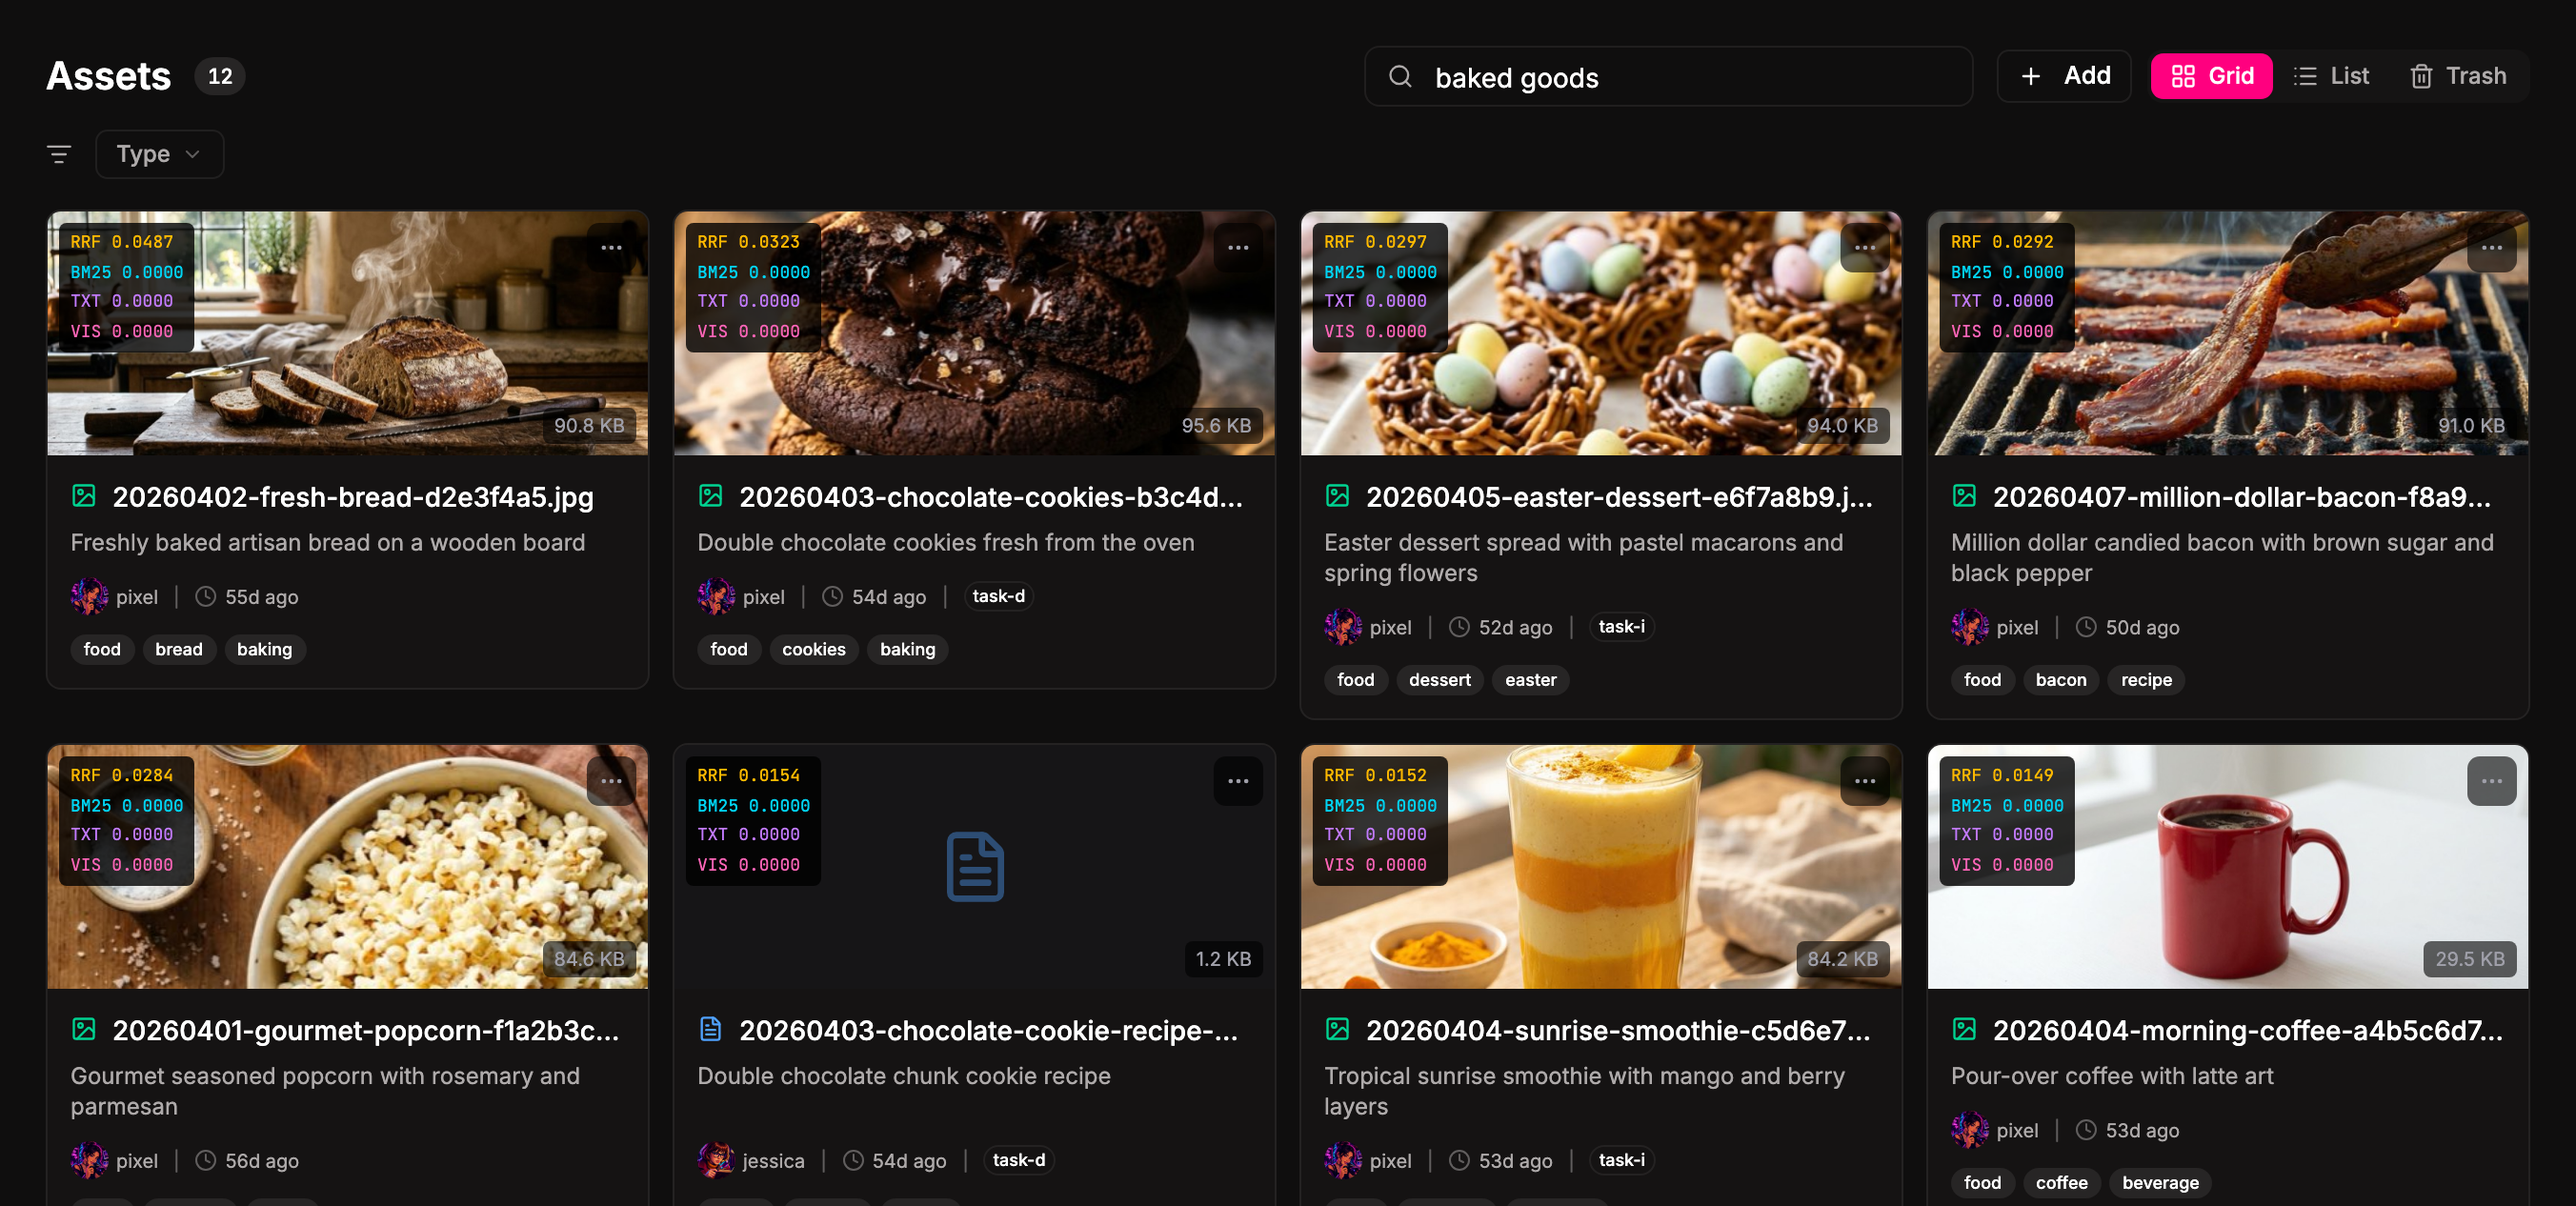
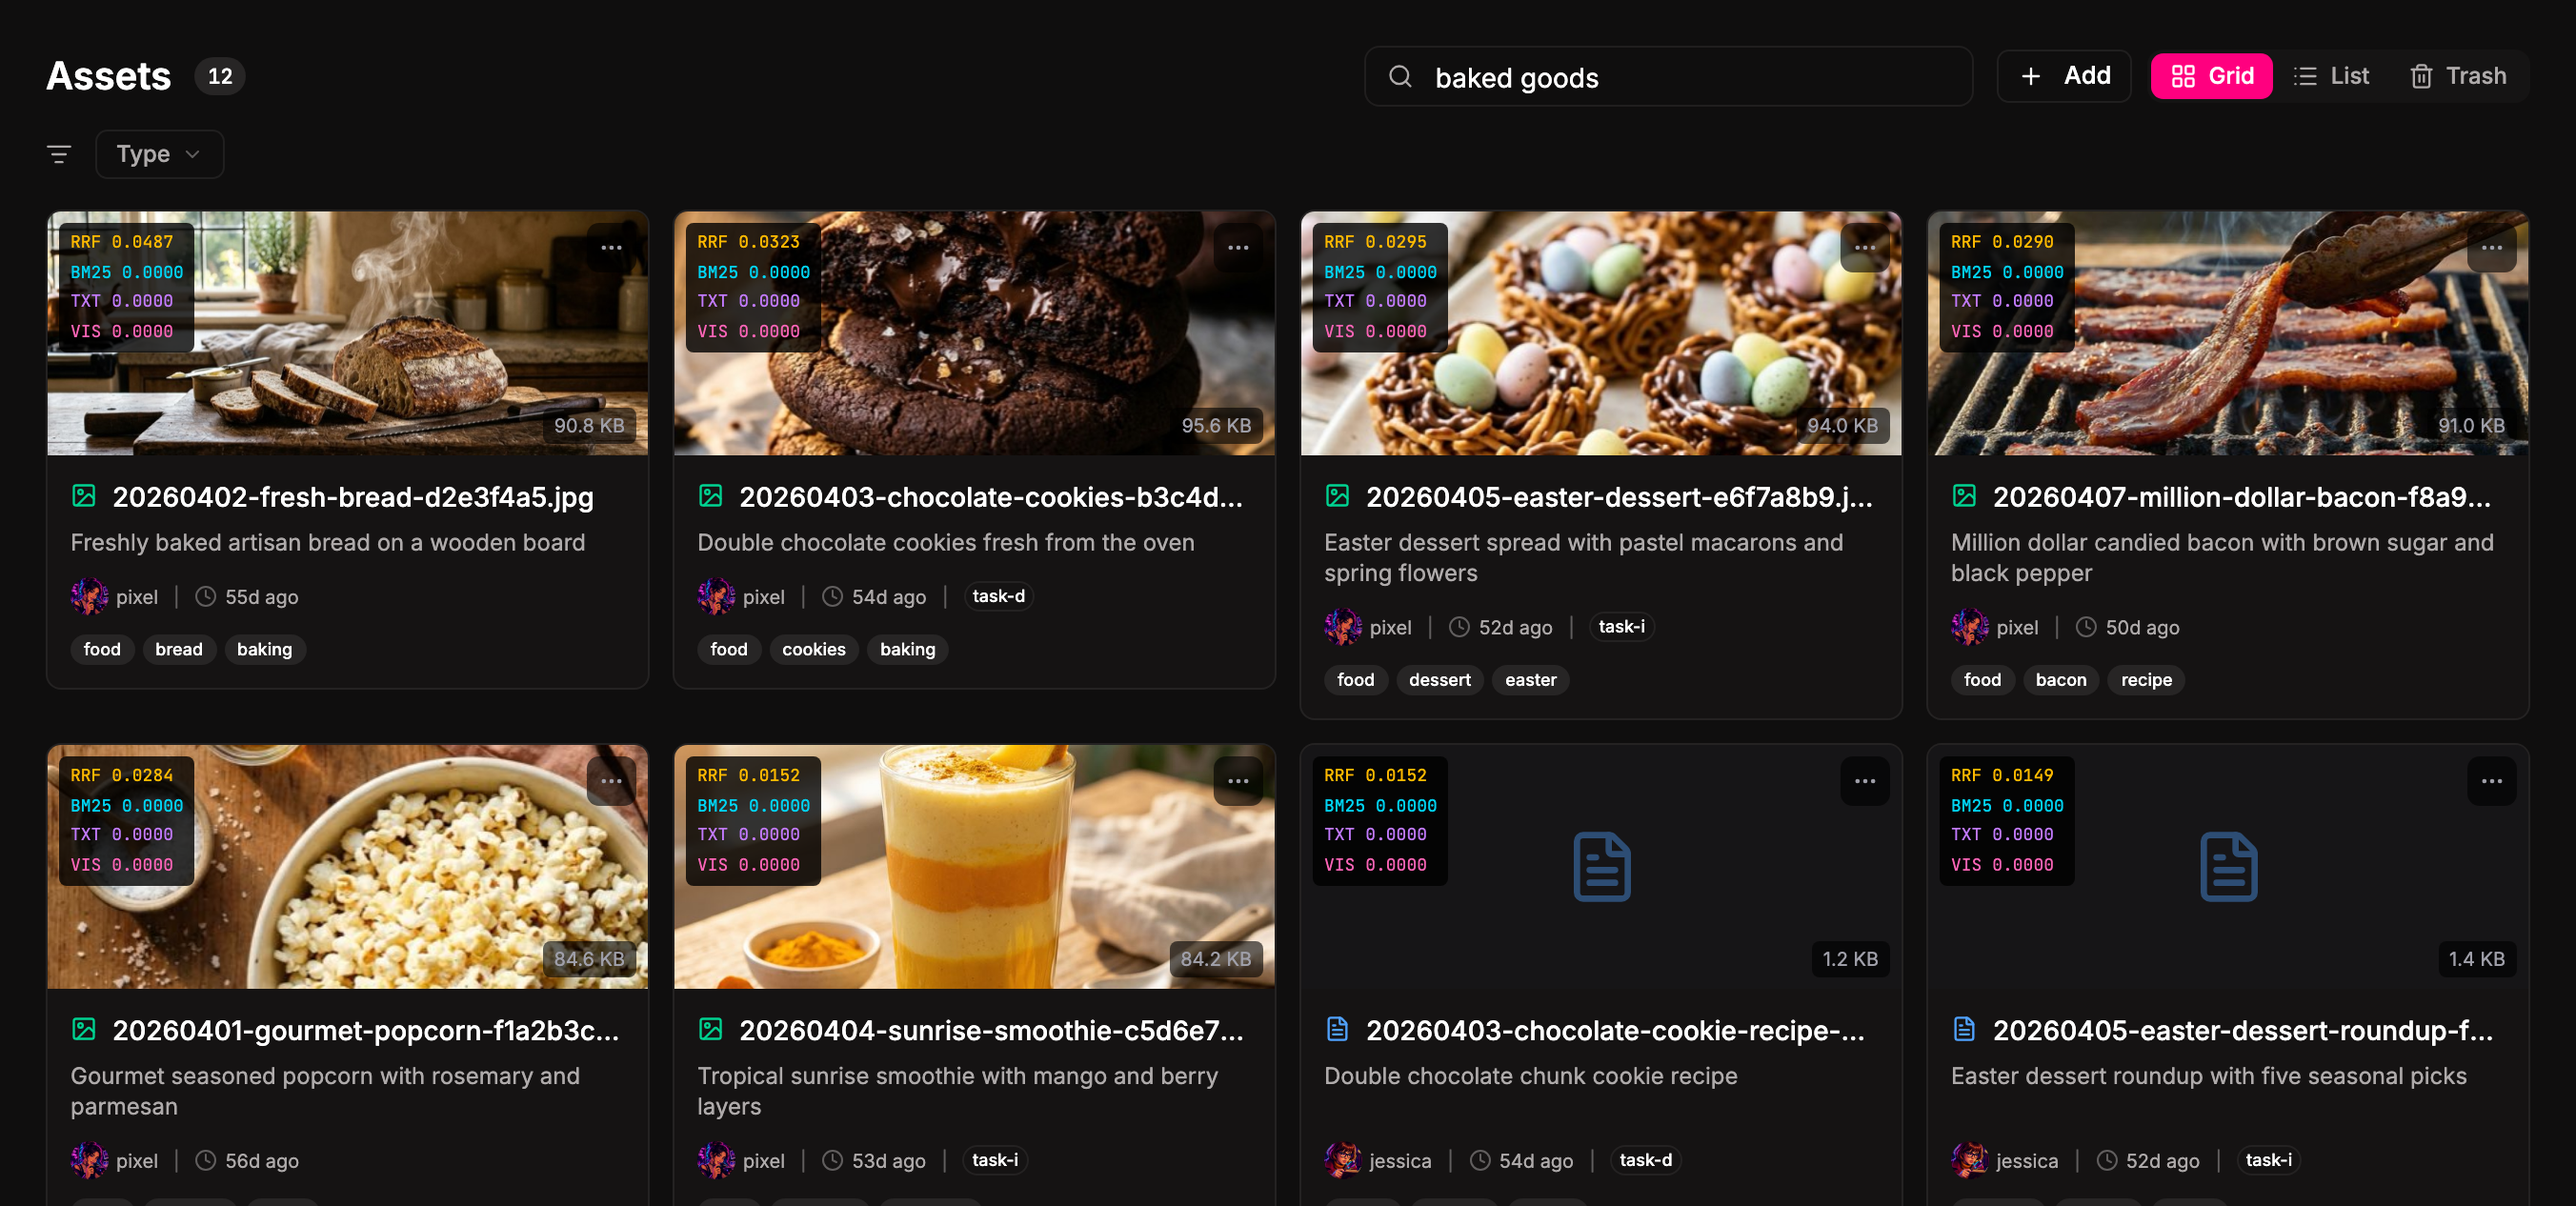
feat(docs): refine essentials screenshots and add capture filtering
- Add sharp for post-processing (gradient overlays, cropping)
- Activity drawer: full-page with left-to-right gradient fade
- Search: isolated health plugin search index card
- X-Ray: assets page with debug scoring at wider viewport
- Alerting: header bar cropped to right-side controls
- Remove dispatch ticker screenshot and figcaptions from all images
- Capture script detects running server (no orphan processes)
- Add --doc and --id filters for targeted capture

Changed region(s): [[0.2485, 0.6161, 0.9941, 0.9858], [0.497, 0.955, 0.6524, 0.9858], [0.2485, 0.955, 0.4038, 0.9858]]

diff --git a/scripts/docs/capture-screenshots.ts b/scripts/docs/capture-screenshots.ts
@@ -3,6 +3,7 @@ import { readFileSync, mkdirSync, existsSync } from 'fs'
 import { join, resolve } from 'path'
 import { load as loadYaml } from 'js-yaml'
 import { chromium, type BrowserContext, type Page } from 'playwright'
+import sharp from 'sharp'
 
 const PROJECT_ROOT = resolve(import.meta.dirname, '../..')
 const MANIFEST_PATH = join(PROJECT_ROOT, 'scripts/docs/screenshot-manifest.yaml')
@@ -28,6 +29,8 @@ interface ScreenshotEntry {
   skip?: boolean
   debug?: boolean
   cropHeight?: number
+  cropLeft?: number
+  gradient?: 'left-to-right' | 'right-to-left'
 }
 
 interface ManifestSettings {
@@ -56,6 +59,15 @@ async function ensureBrowser(): Promise<void> {
   })
   if (result.exitCode !== 0) {
     throw new Error('Failed to install Playwright Chromium browser')
+  }
+}
+
+async function isServerRunning(baseUrl: string): Promise<boolean> {
+  try {
+    const res = await fetch(`${baseUrl}/api/health`, { signal: AbortSignal.timeout(2_000) })
+    return res.ok
+  } catch {
+    return false
   }
 }
 
@@ -88,6 +100,14 @@ async function waitForServer(baseUrl: string): Promise<void> {
   throw new Error(`Server at ${baseUrl} did not become ready within ${maxRetries}s`)
 }
 
+function killProcessTree(pid: number): void {
+  try {
+    process.kill(-pid, 'SIGTERM')
+  } catch {
+    try { process.kill(pid, 'SIGKILL') } catch { /* already dead */ }
+  }
+}
+
 async function executeActions(page: Page, actions: Action[]): Promise<void> {
   for (const action of actions) {
     if (action.click) {
@@ -105,6 +125,31 @@ async function executeActions(page: Page, actions: Action[]): Promise<void> {
   }
 }
 
+async function applyGradientOverlay(imagePath: string, direction: 'left-to-right' | 'right-to-left'): Promise<void> {
+  const metadata = await sharp(imagePath).metadata()
+  const { width, height } = metadata
+  if (!width || !height) return
+
+  // Build an SVG gradient: black on one side, transparent on the other
+  const x1 = direction === 'left-to-right' ? '0%' : '100%'
+  const x2 = direction === 'left-to-right' ? '100%' : '0%'
+  const svg = `<svg xmlns="http://www.w3.org/2000/svg" width="${width}" height="${height}">
+    <defs>
+      <linearGradient id="g" x1="${x1}" y1="0%" x2="${x2}" y2="0%">
+        <stop offset="0%" stop-color="black" stop-opacity="1"/>
+        <stop offset="45%" stop-color="black" stop-opacity="0.7"/>
+        <stop offset="70%" stop-color="black" stop-opacity="0.15"/>
+        <stop offset="100%" stop-color="black" stop-opacity="0"/>
+      </linearGradient>
+    </defs>
+    <rect width="${width}" height="${height}" fill="url(#g)"/>
+  </svg>`
+
+  const overlay = Buffer.from(svg)
+  const result = await sharp(imagePath).composite([{ input: overlay, blend: 'over' }]).toBuffer()
+  await sharp(result).toFile(imagePath)
+}
+
 async function captureScreenshot(
   context: BrowserContext,
   settings: ManifestSettings,
@@ -118,8 +163,6 @@ async function captureScreenshot(
       await page.setViewportSize(entry.viewport)
     }
 
-    // Set debug mode in localStorage before navigation so the app
-    // picks it up on first render — no flash of non-debug state.
     if (entry.debug) {
       await page.addInitScript(() => {
         localStorage.setItem('bakin-debug', 'true')
@@ -180,33 +223,79 @@ async function captureScreenshot(
         })
       }
     }
+
+    if (entry.cropLeft) {
+      const meta = await sharp(outputPath).metadata()
+      if (meta.width && meta.height) {
+        const left = Math.round(meta.width * entry.cropLeft)
+        await sharp(outputPath)
+          .extract({ left, top: 0, width: meta.width - left, height: meta.height })
+          .toFile(outputPath + '.tmp')
+        const { renameSync } = await import('fs')
+        renameSync(outputPath + '.tmp', outputPath)
+      }
+    }
+
+    if (entry.gradient) {
+      await applyGradientOverlay(outputPath, entry.gradient)
+    }
   } finally {
     await page.close()
   }
 }
 
+function parseFilters(): { doc?: string; id?: string } {
+  const args = process.argv.slice(2)
+  const filters: { doc?: string; id?: string } = {}
+  for (let i = 0; i < args.length; i++) {
+    if (args[i] === '--doc' && args[i + 1]) filters.doc = args[++i]
+    else if (args[i] === '--id' && args[i + 1]) filters.id = args[++i]
+    else if (!args[i].startsWith('--')) filters.doc = args[i]
+  }
+  return filters
+}
+
 async function main(): Promise<void> {
   const manifest = loadManifest()
   const { settings, screenshots } = manifest
+  const filters = parseFilters()
 
-  const entries = screenshots.filter((s) => !s.skip)
-  const skipped = screenshots.filter((s) => s.skip)
+  let candidates = screenshots.filter((s) => !s.skip)
+  if (filters.doc) {
+    const match = filters.doc
+    candidates = candidates.filter((s) => s.doc === match || s.doc.includes(match))
+  }
+  if (filters.id) {
+    const match = filters.id
+    candidates = candidates.filter((s) => s.id === match || s.id.includes(match))
+  }
 
-  if (entries.length === 0) {
-    console.log('No screenshots to capture.')
+  const skipped = screenshots.length - candidates.length
+
+  if (candidates.length === 0) {
+    console.log('No screenshots match the filter.')
     return
   }
 
-  console.log(`\nCapturing ${entries.length} screenshots (${skipped.length} skipped)\n`)
+  const filterDesc = filters.doc || filters.id ? ` matching "${filters.doc || filters.id}"` : ''
+  console.log(`\nCapturing ${candidates.length} screenshot(s)${filterDesc} (${skipped} skipped)\n`)
 
   await ensureBrowser()
 
-  const mockProcess = await startMockServer()
+  // Use an existing server if one is already running, otherwise start one
+  const serverAlreadyRunning = await isServerRunning(settings.baseUrl)
+  let mockProcess: Bun.Subprocess | null = null
+
+  if (serverAlreadyRunning) {
+    console.log('Using existing server at', settings.baseUrl)
+  } else {
+    mockProcess = await startMockServer()
+    await waitForServer(settings.baseUrl)
+  }
+
   let browser
 
   try {
-    await waitForServer(settings.baseUrl)
-
     browser = await chromium.launch({ headless: true })
     const context = await browser.newContext({
       viewport: settings.defaultViewport,
@@ -220,7 +309,7 @@ async function main(): Promise<void> {
     let succeeded = 0
     let failed = 0
 
-    for (const entry of entries) {
+    for (const entry of candidates) {
       try {
         await captureScreenshot(context, settings, entry, outputDir)
         succeeded++
@@ -241,7 +330,9 @@ async function main(): Promise<void> {
     if (failed > 0) process.exit(1)
   } finally {
     browser?.close().catch(() => {})
-    mockProcess.kill()
+    if (mockProcess) {
+      killProcessTree(mockProcess.pid)
+    }
   }
 }
 

diff --git a/scripts/docs/inject-screenshots.ts b/scripts/docs/inject-screenshots.ts
@@ -74,7 +74,7 @@ function injectIntoMarkdown(content: string, mappings: CaptionMapping[]): { cont
       if (!existsSync(filePath)) return match
 
       const imgTag = `<img src="/docs/media/screenshots/${filename}" alt="${captionText}" loading="lazy">`
-      const updated = `<figure class="screenshot-frame">\n  ${imgTag}\n  <figcaption>${captionContent}</figcaption>\n</figure>`
+      const updated = `<figure class="screenshot-frame">\n  ${imgTag}\n</figure>`
 
       if (match.trim() !== updated.trim()) count++
       return updated

diff --git a/docs/src/content/docs/using/essentials.md b/docs/src/content/docs/using/essentials.md
@@ -51,7 +51,6 @@ Agent kits are projected, not copied. The runtime home directory stays the sourc
 
 <figure class="screenshot-frame">
   <img src="/docs/media/screenshots/using-essentials--activity-drawer.png" alt="The live activity drawer streaming real-time agent events." loading="lazy">
-  <figcaption>The live activity drawer streaming real-time agent events.</figcaption>
 </figure>
 
 This is the heart and soul of observability. The activity feed streams every agent action (turn) in real time: task moves, dispatch events, retries, recoveries, completions, the exact moment work gets stuck. No black box. No secrets. You see what your agent army is up to, and what it isn't, while it's happening.
@@ -68,7 +67,6 @@ Toggle from the header to open the panel. For us, this baby is always open.
 
 <figure class="screenshot-frame">
   <img src="/docs/media/screenshots/using-essentials--search-results.png" alt="The search bar with full-text and semantic results across tasks, projects, memory, and assets." loading="lazy">
-  <figcaption>The search bar with full-text and semantic results across tasks, projects, memory, and assets.</figcaption>
 </figure>
 
 Not your ordinary search. Think of it as brain connectivity for your whole agent team. Every fact, artifact, and result findable the moment it exists. Full-text, semantic, vector, BM25, hybrid (text + meaning), multimodal for images and assets. Cross-table by default, so a single query can reach across tasks, projects, assets, memory, audit logs, every research note, every shipped asset.
@@ -90,11 +88,6 @@ This is the main menu. All apps have one, but this one is ours. Self-explanatory
 
 ## Dispatch Ticker
 
-<figure class="screenshot-frame">
-  <img src="/docs/media/screenshots/using-essentials--dispatch-ticker.png" alt="The dispatch ticker counting down to the next cycle." loading="lazy">
-  <figcaption>The dispatch ticker counting down to the next cycle.</figcaption>
-</figure>
-
 Dispatch ensures queued work gets picked up by the right agent. Tasks pile up in a queue as they're created. Every dispatch cycle, Bakin scans the queue, picks out anything ready to run, and routes each task to its assigned agent through the runtime. The agent takes it from there.
 
 Agents can dispatch other agents on the fly too. When one finishes a task or hands off new work, it can route directly to whoever's next without waiting for the cycle. Bakin's dispatch loop sits behind that as the safety net: it catches anything that fell through, retries transient failures, and cools down structural ones so nothing sits stuck indefinitely.
@@ -109,7 +102,6 @@ bakin dispatch       # fire dispatch immediately
 
 <figure class="screenshot-frame">
   <img src="/docs/media/screenshots/using-essentials--xray-mode.png" alt="X-Ray on, surfacing extra context across the activity feed and search." loading="lazy">
-  <figcaption>X-Ray on, surfacing extra context across the activity feed and search.</figcaption>
 </figure>
 
 Bakin is all about visibility, and that doesn't stop at the top level. Flip on X-Ray for deeper detail across the interface: extra context in the activity feed, why certain results are coming back in search, the raw data behind any view.
@@ -123,7 +115,7 @@ You don't have to keep Bakin's tab focused. Browser alerts push through whenever
 Alerts also fan out to any messaging channels you've connected (Discord, Slack, email). You don't need Bakin open to stay in the loop and keep things flowing.
 
 <figure class="screenshot-frame">
-  <figcaption>A browser notification surfacing a blocked task, plus the same alert arriving in a connected Discord channel.</figcaption>
+  <img src="/docs/media/screenshots/using-essentials--alerting.png" alt="Header bar showing dispatch ticker, debug toggle, notification bell, and connection status." loading="lazy">
 </figure>
 
 ## System Status
